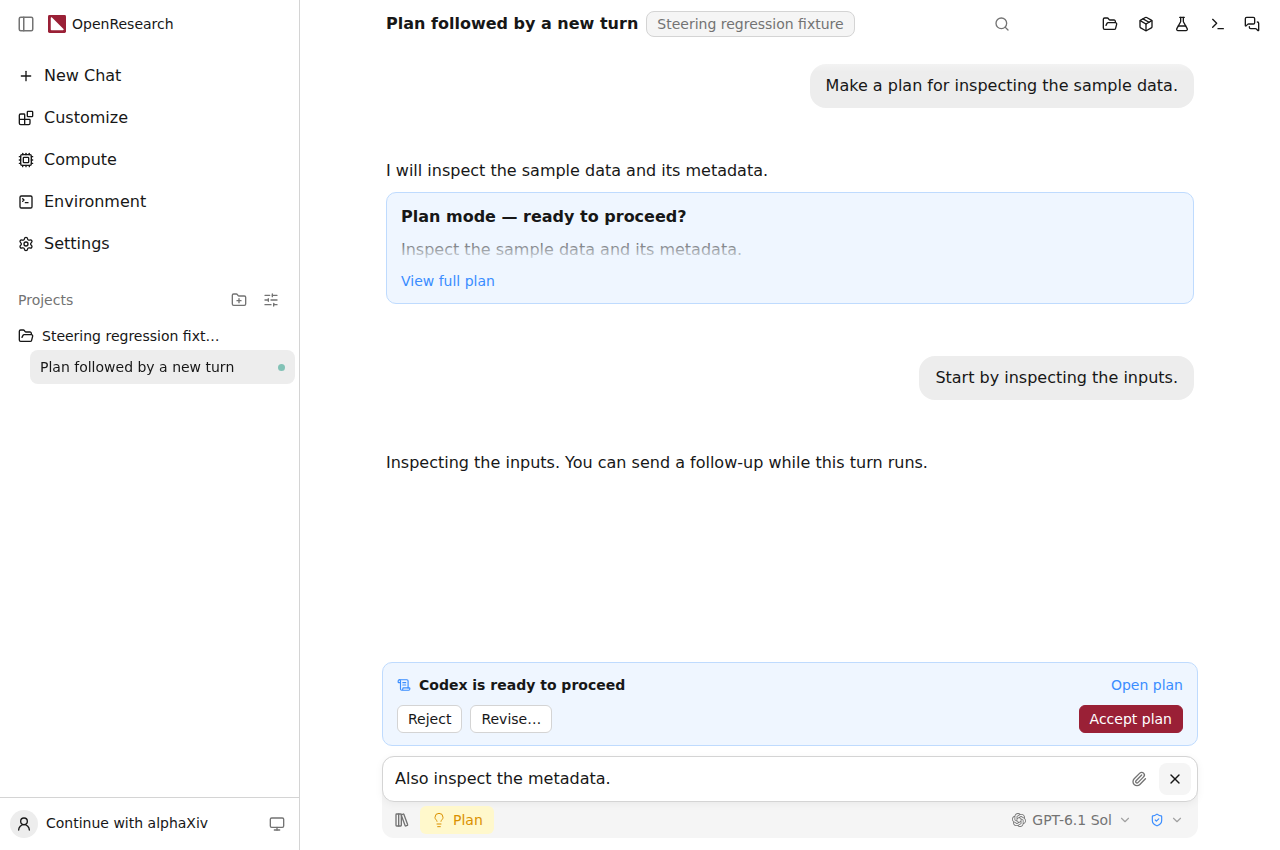
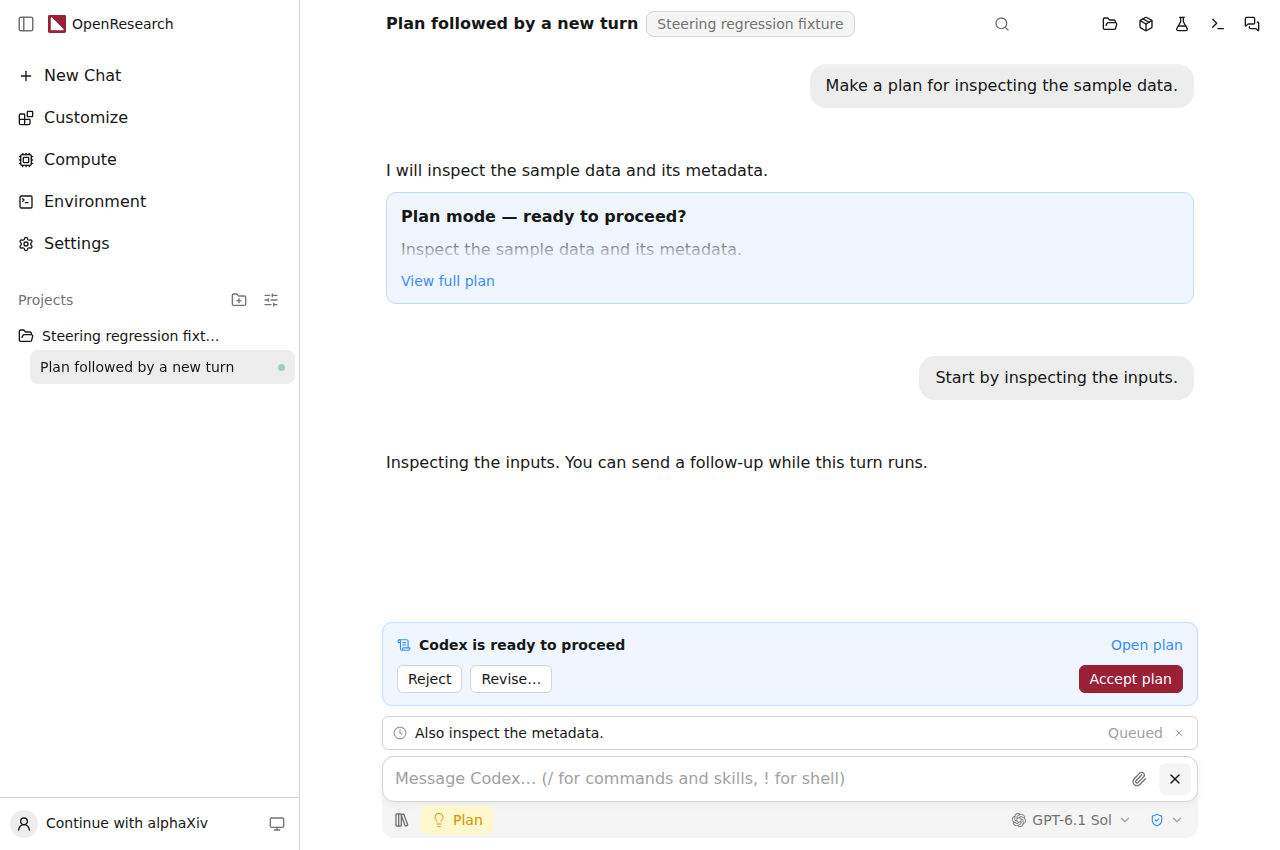
chore: show submitted follow-up outcomes
Capture the visible queue chip and steering bubble after Enter and fixture acknowledgements. Include the fixture harness and its validation limits.

Assisted-by: gpt-6.1-sol

Changed region(s): [[0.3125, 0.7341, 0.5938, 0.9482], [0.8438, 0.7341, 0.9375, 0.8871], [0.625, 0.8871, 0.6562, 0.9176]]

diff --git a/README.md b/README.md
@@ -1,11 +1,20 @@
 # Stale plan steering regression
 
-Browser evidence for alphaXiv/OpenResearch issue #934.
+Post-submission browser evidence for alphaXiv/OpenResearch issue #934 and draft PR #935.
 
 Both screenshots show the real OpenResearch Vite dashboard in Chromium on Linux/WSL2, using synthetic API/event fixtures. No private chat data or real agent run is depicted.
 
-- Before: an older unresolved plan stays docked over a newer running turn and Enter submits without steer mode.
-- After: the old plan remains in history, its docked strip is absent, and Enter submits with mode `steer`.
+Screenshots are captured **after pressing Enter**, waiting for the POST request, waiting for the composer to clear, and processing the fixture acknowledgement event.
+
+- Before (upstream 22295d794fe9b6591b43bfc553aa1b8c205b84e0): the request omits `mode`; one queued chip with the submitted text and a visible **Queued** label appears; there are no steering bubbles.
+- After (fix 295e3b15bd121f825e14703401b088ec64e58d36): the request sends `mode: "steer"`; the submitted text appears in a steering bubble in the running assistant message; there are no queued chips.
+- The draft composer is cleared in both captures. The old plan remains in transcript history in both.
+
+## Scope of the fixture
+
+The fixture observes the actual outgoing request from the dashboard. Based on its `mode`, it acknowledges the request and emits either `chat.queued` or an updated `chat.message` containing a `steer` part. The script asserts both the outgoing mode and the resulting visible state. This verifies frontend request selection and rendering of server feedback; it does not establish delivery to a live Codex process.
+
+The capture harness is included as `capture.mjs` for inspection. Run it as `.shots/capture.mjs` in a code checkout with UI and e2e dependencies installed and a Vite server at 127.0.0.1:4972. Use `before` against the baseline and `after` against the fix. The Vite backend should point to an unused port: the fixture intercepts API requests, supplies event transport, and blocks off-origin requests.
 
 Evidence is stored separately from the code branch so screenshots do not enter the upstream code diff.
 
